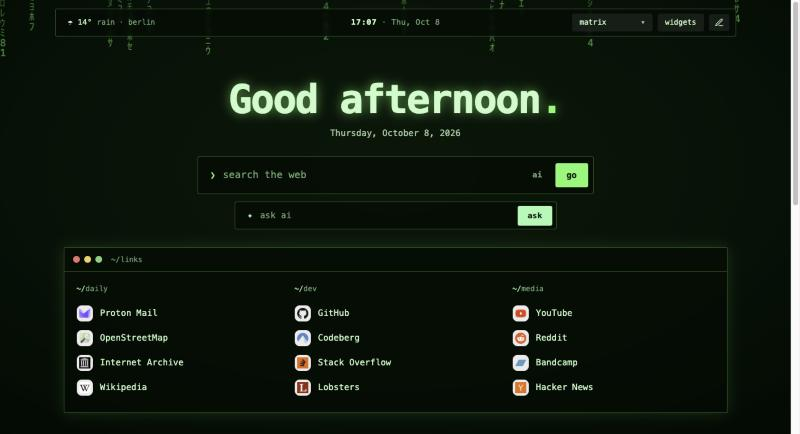
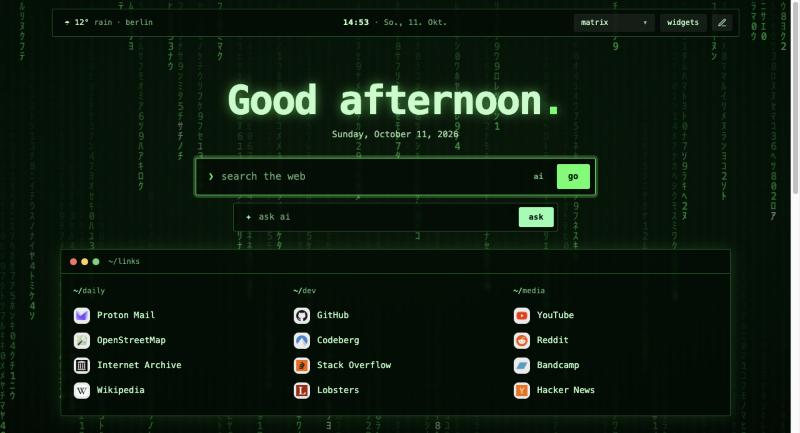
Update Medieval Theme

diff --git a/index.html b/index.html
@@ -44,8 +44,11 @@
   --clip:polygon(0 0,calc(100% - 16px) 0,100% 16px,100% 100%,16px 100%,0 calc(100% - 16px))}
 :root[data-wp=medieval]{
   --mono:"Palatino Linotype",Palatino,"Book Antiqua","Iowan Old Style",Georgia,serif;--fs:16px;
-  --sky1:#e8d5a8;--sky2:#d9bf86;--sky3:#c9a566;--text:#2b1a0e;--muted:#6b4f33;--accent:#8b1a1a;--accent2:#1f4a7a;--green:#3f6b2e;--blue:#1f4a7a;--pink:#a0522d;
-  --panel:rgba(240,225,185,.84);--line:rgba(60,35,15,.6);--ink:#f6ebc8;--rad:4px;--pill:6px;--bw:3px;--bs:double;--shadow:0 8px 20px rgba(60,35,15,.3);--blur:2px;--grain:.12}
+  --sky1:#e6d8bb;--sky2:#dccba6;--sky3:#cdb98c;--text:#4a3624;--muted:#7d6648;--accent:#a8503a;--accent2:#4f7289;--green:#7b8a56;--blue:#4f7289;--pink:#a1673f;
+  --panel:rgba(232,220,190,.92);--line:rgba(120,78,50,.6);--ink:#f1e6c8;--rad:3px;--pill:4px;--bw:2px;--bs:dashed;--shadow:0 5px 14px rgba(60,35,15,.2);--blur:1px;--grain:.12}
+/* faded like old cloth: panels and their contents are slightly bleached and sepia-toned, with a faint weave */
+:root[data-wp=medieval] .win,:root[data-wp=medieval] #top,:root[data-wp=medieval] .sb{background-image:repeating-linear-gradient(0deg,rgba(138,107,60,.07) 0 1px,transparent 1px 4px),repeating-linear-gradient(90deg,rgba(138,107,60,.07) 0 1px,transparent 1px 4px)}
+:root[data-wp=medieval] .win>*,:root[data-wp=medieval] #top>*,:root[data-wp=medieval] .sb>*{filter:sepia(.45) saturate(.55) contrast(.88) brightness(1.05);opacity:.88}
 :root[data-wp=sketch]{
   --mono:"Segoe Print","Bradley Hand","Chalkboard SE","Marker Felt","Comic Sans MS",cursive;--fs:16px;
   --sky1:#fbfaf4;--text:#222;--muted:#666;--accent:#ff6b4a;--accent2:#4a7cff;--green:#3dbb7a;--blue:#4a7cff;--pink:#ff8fb1;
@@ -154,7 +157,7 @@
 :root[data-wp=matrix] .hero h1{text-shadow:0 0 18px rgba(0,255,102,.55)}
 :root[data-wp=cyber] .hero h1{text-shadow:2px 0 var(--accent),-2px 0 var(--accent2)}
 :root[data-wp=artist] .hero h1{font-style:italic;font-weight:500}
-:root[data-wp=medieval] .hero h1{font-variant:small-caps;letter-spacing:.01em}
+:root[data-wp=medieval] .hero h1{font-variant:small-caps;letter-spacing:.06em;font-weight:700}
 :root[data-wp=minimal] .hero h1,:root[data-wp=artist] .hero h1,:root[data-wp=medieval] .hero h1,:root[data-wp=sketch] .hero h1,
 :root[data-wp=minimal] .sect,:root[data-wp=artist] .sect,:root[data-wp=medieval] .sect,:root[data-wp=sketch] .sect{text-shadow:none}
 *{box-sizing:border-box}
@@ -708,28 +711,78 @@ const PAINT = {
     for (let k = 1; k <= 6; k++) s += `<line x1="0" x2="${W}" y1="${790 + k * k * 3.1}" y2="${790 + k * k * 3.1}" stroke="${mag}" stroke-opacity=".4"/>`;
     return s + `<line x1="0" x2="${W}" y1="790" y2="790" stroke="${cy}" stroke-width="2"/><rect width="${W}" height="${H}" fill="url(#scan)"/>`;
   },
-  medieval(c) {
-    const { v, W, H } = c, dark = "#2b1d10";
-    let s = `<defs><linearGradient id="ps" x1="0" y1="0" x2="0" y2="1"><stop offset="0" stop-color="${v("--sky2")}"/><stop offset=".6" stop-color="${v("--sky1")}"/><stop offset="1" stop-color="${v("--sky3")}"/></linearGradient>
-      <radialGradient id="vig" cx=".5" cy=".5" r=".75"><stop offset=".55" stop-color="#3b2410" stop-opacity="0"/><stop offset="1" stop-color="#3b2410" stop-opacity=".5"/></radialGradient>
-      <filter id="stain"><feTurbulence type="fractalNoise" baseFrequency=".008 .012" numOctaves="4" seed="9"/><feColorMatrix values="0 0 0 0 .45  0 0 0 0 .3  0 0 0 0 .12  0 0 0 1.3 -.45"/></filter></defs>
-      <rect width="${W}" height="${H}" fill="url(#ps)"/><rect width="${W}" height="${H}" filter="url(#stain)" opacity=".5"/>
-      <circle cx="260" cy="250" r="70" fill="${v("--accent")}" opacity=".16"/><circle cx="260" cy="250" r="46" fill="none" stroke="${v("--accent")}" stroke-width="2" opacity=".35"/>
-      <path d="${ridgeD(c, 700, 45, .0035)}" fill="#8a7d52" opacity=".6"/>`;
-    const tower = (tx, tw, top) => {
-      let t = `<rect x="${tx}" y="${top}" width="${tw}" height="${340 - top}"/>`;
-      for (let i = 0; i < tw / 14; i++) t += `<rect x="${tx + i * 14}" y="${top - 12}" width="9" height="13"/>`;
-      return t;
+  medieval(c) {   // Bayeux Tapestry meme style: embroidered wool figures on creased linen, olive border, uncial captions
+    const { v, W, H } = c, ln = "#2b2018", skin = "#ecd8b2", steel = "#a79f86";
+    const wool = ["#b25a45", "#cfa94f", "#8a8450", "#2f3d52", "#c47a6a"];
+    const st = `stroke="${ln}" stroke-width="2.4" stroke-linejoin="round" stroke-linecap="round"`;
+    const limb = (d, col, w) => `<path d="${d}" fill="none" stroke="${ln}" stroke-width="${w + 4}" stroke-linecap="round" stroke-linejoin="round"/><path d="${d}" fill="none" stroke="${col}" stroke-width="${w}" stroke-linecap="round" stroke-linejoin="round"/>`;
+    const horse = (x, y, k, col, col2, col3, flip) => `<g transform="translate(${x} ${y}) scale(${flip ? -k : k} ${k})">
+      ${limb("M-60 -48 L-88 -28 L-124 -20", col2, 8)}${limb("M-46 -46 L-70 -22 L-98 -4", col, 8)}
+      <path d="M-84 -72 Q-112 -74 -128 -44 Q-110 -58 -90 -56Z" fill="${col2}" ${st}/>
+      <path d="M-86 -66 Q-88 -86 -62 -86 L34 -86 Q54 -94 64 -120 Q70 -138 88 -136 L104 -118 L122 -104 Q124 -92 110 -92 L96 -98 Q86 -92 78 -76 Q70 -56 54 -46 Q38 -36 8 -38 L-50 -38 Q-82 -42 -86 -66Z" fill="${col}" ${st}/>
+      <path d="M66 -122 Q74 -144 88 -140 L84 -128Z" fill="${col}" ${st}/><path d="M62 -112 q8 -12 14 -4 q4 -14 12 -6 q6 -12 12 -2" fill="none" stroke="${col2}" stroke-width="6" stroke-linecap="round"/>
+      <circle cx="102" cy="-114" r="3" fill="${ln}"/><path d="M100 -112 Q84 -96 36 -84" fill="none" stroke="${ln}" stroke-width="2.2"/>
+      <path d="M-30 -86 H12 L10 -60 H-28Z" fill="${col3}" ${st}/>
+      ${limb("M48 -46 L76 -24 L104 -32", col2, 8)}${limb("M38 -44 L60 -18 L86 -8", col, 8)}
+      ${limb("M-6 -84 L16 -52", skin, 7)}
+      <path d="M-18 -84 Q-22 -128 -2 -142 L24 -140 Q32 -104 24 -84Z" fill="${steel}" ${st}/><path d="M-18 -84 L24 -84 L26 -72 L-20 -72Z" fill="${col3}" ${st}/>
+      <path d="M-2 -142 Q-6 -158 10 -162 Q26 -158 24 -140Z" fill="${skin}" ${st}/>
+      <path d="M-2 -150 Q0 -176 16 -172 Q28 -168 28 -150 L22 -150 Q14 -158 -2 -150Z" fill="${steel}" ${st}/><path d="M24 -166 V-150" fill="none" stroke="${ln}" stroke-width="3" stroke-linecap="round"/>
+      <circle cx="18" cy="-156" r="1.8" fill="${ln}"/>
+      <path d="M-14 -138 Q12 -146 30 -136 Q30 -102 8 -66 Q-16 -100 -14 -138Z" fill="${col3}" ${st}/><path d="M8 -138 V-72 M-12 -108 H28" fill="none" stroke="${col}" stroke-width="6"/>
+      ${limb("M20 -126 L48 -122", skin, 6)}<path d="M-18 -106 L146 -150" fill="none" stroke="${ln}" stroke-width="4.5" stroke-linecap="round"/><path d="M138 -148 L168 -142 L146 -166Z" fill="${col}" ${st}/></g>`;
+    // standing man in a cloak, arms thrown out (like the "hey, focus" meme)
+    const man = (x, y, k, cloak, tunic) => `<g transform="translate(${x} ${y}) scale(${k})">
+      ${limb("M-6 -60 L-18 -12", "url(#hatch)", 11)}${limb("M8 -60 L22 -12", "url(#hatch)", 11)}
+      <path d="M-34 -16 q-6 -10 12 -8 l8 6 q-10 6 -20 2Z M12 -14 q4 -10 22 -6 l2 6 q-12 6 -24 0Z" fill="${ln}"/>
+      <path d="M-30 -80 L-34 -34 Q0 -24 34 -34 L30 -80Z" fill="${tunic}" ${st}/><path d="M-33 -44 Q0 -34 33 -44" fill="none" stroke="${wool[1]}" stroke-width="4"/>
+      <path d="M-20 -150 Q-32 -104 -50 -58 Q0 -44 50 -58 Q36 -104 20 -150Z" fill="${cloak}" ${st}/><path d="M-22 -142 Q0 -128 22 -142" fill="none" stroke="${ln}" stroke-width="2"/>
+      ${limb("M-18 -138 L-60 -164", cloak, 7)}${limb("M18 -138 L62 -154", cloak, 7)}
+      <path d="M-62 -168 l-12 -6 l2 11 l-8 5 l11 1 l4 5Z M62 -156 l12 -10 l3 12 l10 2 l-12 7Z" fill="${skin}" ${st}/>
+      <circle cx="0" cy="-164" r="13" fill="${skin}" ${st}/><path d="M-13 -166 Q-12 -182 0 -180 Q13 -182 13 -166 Q6 -174 -13 -166Z" fill="${ln}"/>
+      <path d="M-8 -158 Q0 -153 8 -158" fill="none" stroke="${ln}" stroke-width="3"/><circle cx="-4" cy="-166" r="1.4" fill="${ln}"/><circle cx="5" cy="-166" r="1.4" fill="${ln}"/></g>`;
+    const flames = (x, y, w, h, ph) => {
+      let f = "";
+      for (let i = 0, fx = x; fx < x + w; i++, fx += 26) { const hh = h * (.55 + .45 * Math.abs(Math.sin(i * 1.7 + ph))), lean = (i % 2 ? 7 : -5); f += `<path d="M${fx} ${y} Q${fx + 3} ${y - hh * .45} ${fx + 13 + lean} ${y - hh} Q${fx + 22} ${y - hh * .45} ${fx + 26} ${y}Z" fill="${i % 2 ? wool[1] : "#e2c273"}" stroke="${wool[0]}" stroke-width="2.6" stroke-linejoin="round"/><path d="M${fx + 9} ${y - 4} Q${fx + 11} ${y - hh * .4} ${fx + 13 + lean} ${y - hh * .72}" fill="none" stroke="${wool[0]}" stroke-width="2.2" opacity=".75"/>`; }
+      return f;
     };
-    s += `<g transform="translate(1130 505)" fill="${dark}" opacity=".93"><rect x="0" y="150" width="280" height="190"/>`;
-    for (let i = 0; i < 14; i++) s += `<rect x="${i * 20}" y="138" width="12" height="14"/>`;
-    s += tower(-14, 56, 60) + tower(238, 56, 80) + tower(100, 80, 10)
-      + `<polygon points="-18,48 14,-15 46,48"/><polygon points="234,68 266,5 298,68"/>
-         <line x1="140" y1="-2" x2="140" y2="-44" stroke="${dark}" stroke-width="3"/><polygon points="140,-44 178,-33 140,-22" fill="${v("--accent")}"/>
-         <path d="M120 340 V205 a20 20 0 0 1 40 0 V340Z" fill="#e8d5a8" opacity=".22"/></g>
-      <path d="${ridgeD(c, 790, 40, .003)}" fill="#6b5e3a"/><path d="${ridgeD(c, 850, 30, .0026)}" fill="#3c3220"/>
-      <rect width="${W}" height="${H}" fill="url(#vig)"/>`;
-    return s;
+    // the dog at its table (everything is fine)
+    const dog = (x, y, k) => `<g transform="translate(${x} ${y}) scale(${k})">
+      <g transform="translate(40 0)"><rect x="40" y="-92" width="150" height="14" fill="#c9a074" ${st}/>${[0, 1, 2, 3, 4].map(i => `<rect x="${52 + i * 26}" y="-104" width="14" height="12" fill="${wool[i % 2 ? 0 : 1]}" ${st}/>`).join("")}
+      <rect x="46" y="-78" width="138" height="60" fill="${wool[0]}" ${st}/><rect x="46" y="-58" width="138" height="14" fill="${wool[3]}" ${st}/><path d="M46 -66 H184" stroke="${wool[1]}" stroke-width="5"/>
+      <path d="M46 -18 L36 6 M184 -18 L194 6" stroke="${ln}" stroke-width="7" stroke-linecap="round"/></g>
+      ${limb("M22 -44 Q22 -20 12 2", "#d1a948", 12)}
+      <path d="M-6 4 L-2 -10 Q-12 -34 -2 -58 Q4 -90 14 -112 Q16 -128 24 -140 L34 -156 Q44 -164 56 -158 L72 -168 Q80 -162 72 -154 L60 -144 Q54 -132 48 -124 Q50 -104 52 -88 Q56 -66 50 -50 Q46 -34 34 -26 Q34 -12 38 -2 L46 6 L22 6 Q22 -8 18 -22 Q8 -14 8 4Z" fill="#d1a948" ${st}/>
+      <path d="M34 -156 L30 -140 L42 -150Z" fill="#a37c2c" ${st}/><path d="M26 -134 Q40 -126 50 -128" fill="none" stroke="${wool[0]}" stroke-width="5" stroke-linecap="round"/>
+      ${limb("M50 -96 L96 -90", "#d1a948", 8)}<path d="M92 -96 L110 -110" stroke="${ln}" stroke-width="5" stroke-linecap="round"/><circle cx="100" cy="-90" r="5" fill="#d1a948" ${st}/>
+      <circle cx="58" cy="-154" r="2.2" fill="${ln}"/><circle cx="74" cy="-162" r="2.4" fill="${ln}"/></g>`;
+    const tree = (x, y, k, col) => `<g transform="translate(${x} ${y}) scale(${k})"><path d="M0 0 Q-6 -40 0 -96" fill="none" stroke="${ln}" stroke-width="11" stroke-linecap="round"/><path d="M0 0 Q-6 -40 0 -96" fill="none" stroke="${wool[0]}" stroke-width="5" stroke-linecap="round"/>
+      ${[[-1, -30], [1, -48], [-1, -66], [1, -84], [0, -100]].map(([d, h]) => `<path d="M0 ${h} q${d * 44} -10 ${d * 38} -38 q-${d * 28} 6 -${d * 38} 38Z" fill="${col}" ${st}/>`).join("")}</g>`;
+    const wave = (y, up) => { let d = `M0 ${y}`; for (let x = 0; x <= W; x += 40) d += ` Q${x + 10} ${y + (up ? -8 : 8)} ${x + 20} ${y} T${x + 40} ${y}`; return d; };
+    const band = (top) => {   // embroidered olive border with a wavy edge
+      const y0 = top ? 0 : H - 52, e = top ? 52 : H - 52;
+      return `<path d="${wave(e, top)} V${top ? 0 : H} H0Z" fill="#a39a6d"/><path d="${wave(e, top)} V${top ? 0 : H} H0Z" fill="url(#leaf)"/><path d="${wave(e, top)}" fill="none" stroke="#7d7551" stroke-width="3"/>`;
+    };
+    const txt = (x, y, t, size = 30) => `<text x="${x}" y="${y}" font-family="Luminari,Papyrus,'Uncial Antiqua','Palatino Linotype',Georgia,serif" font-size="${size}" fill="${ln}" opacity=".92" letter-spacing="1.5">${t}</text>`;
+    let s = `<defs>
+      <pattern id="weave" width="4" height="4" patternUnits="userSpaceOnUse"><path d="M0 .5H4M.5 0V4" stroke="#8a7650" stroke-width=".55" opacity=".26"/></pattern>
+      <pattern id="hatch" width="7" height="7" patternUnits="userSpaceOnUse"><rect width="7" height="7" fill="#c9b68a"/><path d="M0 0 L7 7 M7 0 L0 7" stroke="#6d5a3a" stroke-width="1.2"/></pattern>
+      <pattern id="leaf" width="26" height="40" patternUnits="userSpaceOnUse"><path d="M13 38 V8 M13 28 Q5 22 3 12 M13 28 Q21 22 23 12 M13 18 Q8 14 7 8 M13 18 Q18 14 19 8" fill="none" stroke="#d8cc98" stroke-width="1.6" stroke-linecap="round" opacity=".75"/></pattern>
+      <radialGradient id="vig" cx=".5" cy=".5" r=".8"><stop offset=".6" stop-color="#5a4426" stop-opacity="0"/><stop offset="1" stop-color="#5a4426" stop-opacity=".34"/></radialGradient>
+      <linearGradient id="seam" x1="0" x2="1"><stop offset="0" stop-color="#6d5a3a" stop-opacity="0"/><stop offset=".5" stop-color="#6d5a3a" stop-opacity=".3"/><stop offset="1" stop-color="#fff8e0" stop-opacity=".25"/></linearGradient>
+      <filter id="stain"><feTurbulence type="fractalNoise" baseFrequency=".006 .01" numOctaves="4" seed="9"/><feColorMatrix values="0 0 0 0 .5  0 0 0 0 .38  0 0 0 0 .2  0 0 0 1.1 -.4"/></filter>
+      <filter id="wool" x="-5%" y="-5%" width="110%" height="110%"><feTurbulence type="fractalNoise" baseFrequency=".05" numOctaves="2" seed="2" result="w"/><feDisplacementMap in="SourceGraphic" in2="w" scale="2.5" result="d"/>
+        <feTurbulence type="fractalNoise" baseFrequency=".7 .16" numOctaves="2" seed="5"/><feColorMatrix values="0 0 0 0 .2  0 0 0 0 .12  0 0 0 0 .05  0 0 0 -2.4 1.3"/><feComposite in2="d" operator="in" result="t"/><feMerge><feMergeNode in="d"/><feMergeNode in="t"/></feMerge></filter></defs>
+      <rect width="${W}" height="${H}" fill="${v("--sky1")}"/><rect width="${W}" height="${H}" filter="url(#stain)" opacity=".5"/><rect width="${W}" height="${H}" fill="url(#weave)"/>
+      <g>${[330, 1010].map(x => `<rect x="${x}" width="14" height="${H}" fill="url(#seam)"/>`).join("")}<rect y="610" width="${W}" height="10" fill="#6d5a3a" opacity=".08"/></g><g filter="url(#wool)">`;
+    s += band(true) + band(false);
+    s += `<g transform="translate(1320 200)"><path d="M0 0 Q90 -24 260 -78 Q120 6 40 38Z" fill="${wool[1]}" ${st}/><path d="M0 0 Q70 -12 180 -52" fill="none" stroke="${wool[0]}" stroke-width="6" stroke-linecap="round"/><path d="M10 14 Q80 0 190 -20" fill="none" stroke="${wool[2]}" stroke-width="5" stroke-linecap="round"/><circle r="28" fill="${wool[0]}" ${st}/><circle r="11" fill="${wool[1]}" ${st}/></g>`;
+    const base = H - 74;
+    s += man(110, base, 1.25, wool[0], wool[2]);
+    s += horse(450, base, 1.15, wool[1], wool[0], wool[3], false) + tree(690, base, .9, wool[2]) + horse(930, base, 1.15, wool[3], wool[2], wool[0], false);
+    s += flames(1130, base, 470, 130, 0) + dog(1250, base, 1.45) + flames(1190, base + 2, 410, 56, 2) + flames(0, base, 60, 60, 1);
+    s += txt(1240, 470, "Thys be fyne", 34) + txt(70, 330, "Good morrow, thou art early.", 24) + txt(1230, 305, "Isti mirant stella", 24);
+    return s + `</g><rect width="${W}" height="${H}" fill="url(#vig)"/>`;
   },
   pond(c) {   // no drawn artwork on purpose: this theme is the video (assets/pond-*.mp4); without one you just get dark water-green
     const { v, W, H } = c;
